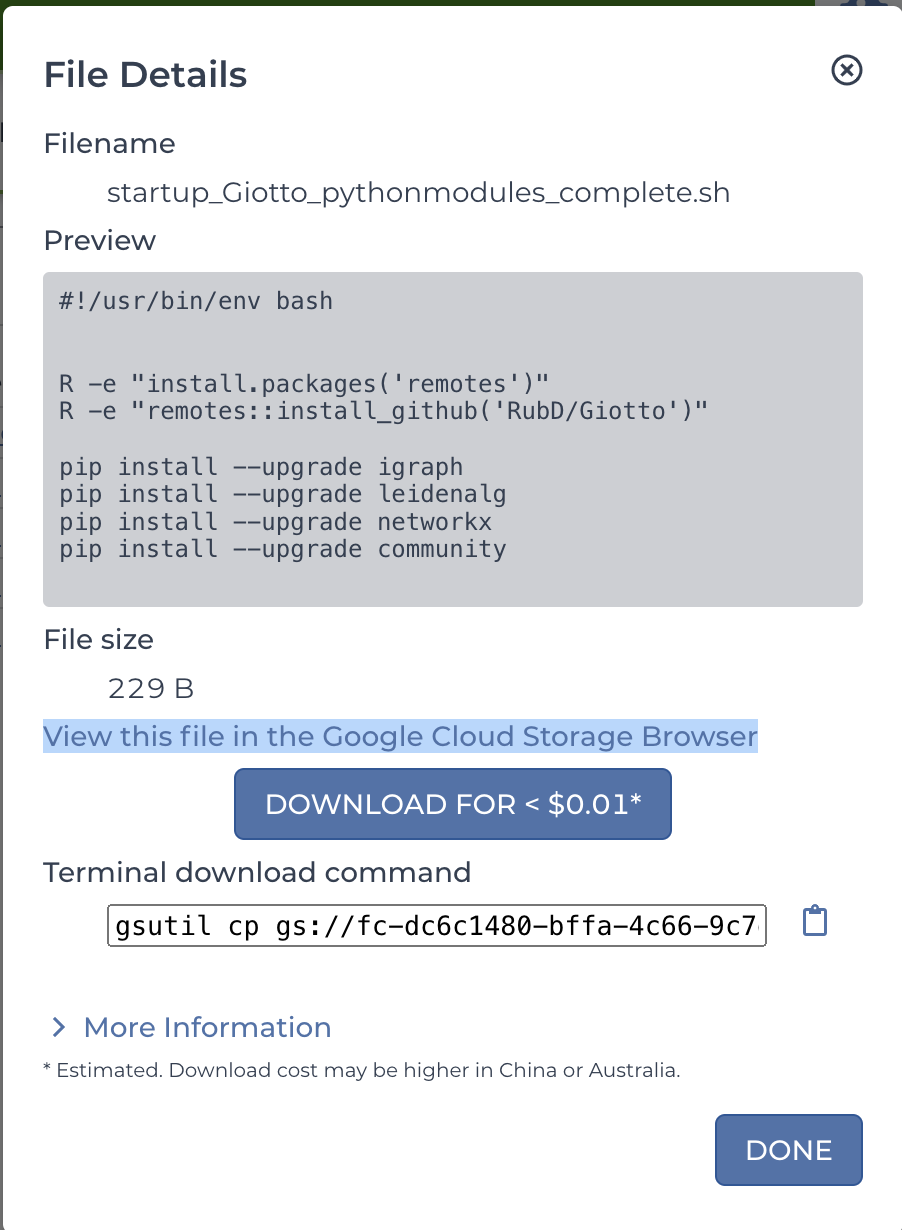
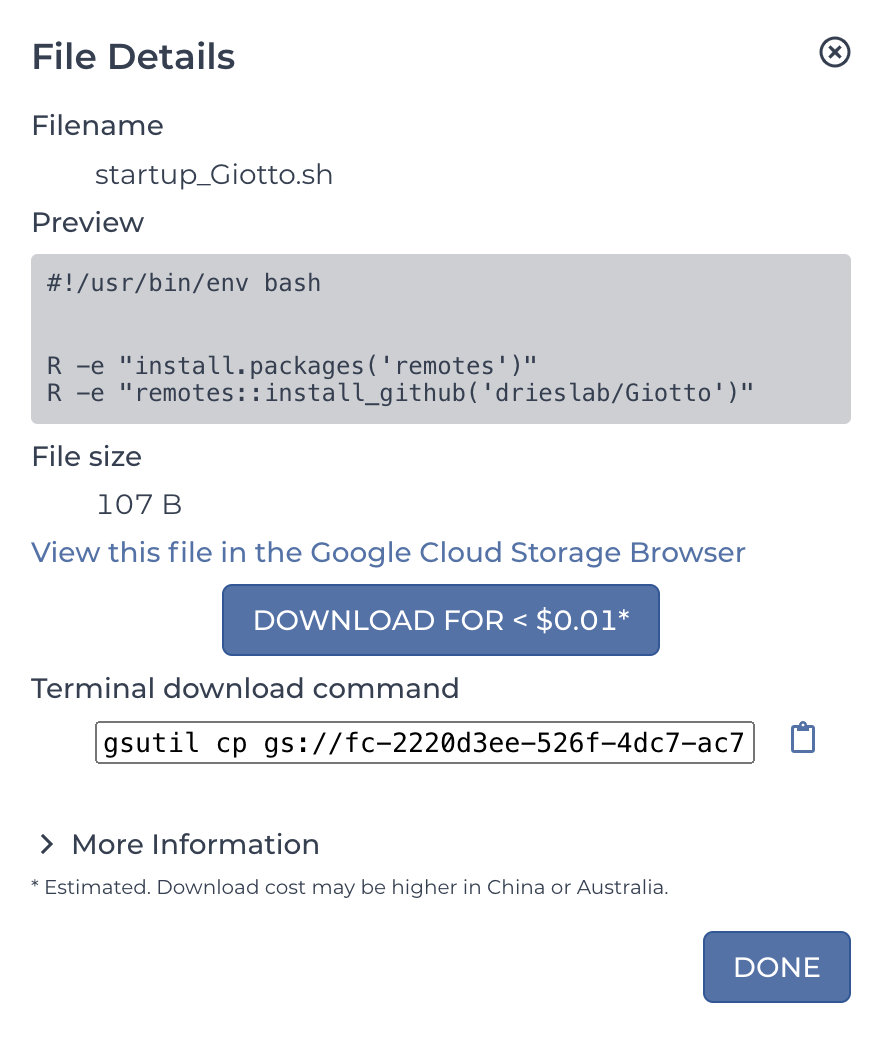
update Terra tutorial

Changed region(s): [[0.0, 0.0, 1.0, 1.0], [0.767, 0.8889, 0.9818, 0.9808], [0.8898, 0.6743, 0.9205, 0.7663]]

diff --git a/docs/source/subsections/trygiotto/terra.rst b/docs/source/subsections/trygiotto/terra.rst
@@ -4,85 +4,98 @@
 Terra
 ##########
 
+======================================
 Launching Giotto on the Cloud
 ======================================
 
-You can run all your pipelines using Giotto on the Cloud through Terra platform.
+You can run all your pipelines using Giotto on the Cloud through the Terra platform.
 
 Setting up your Terra account
 ======================================
 
-Go to `Terra <https://app.terra.bio/>`__ on your Chrome browser and `Sign Up` using the same email address that you will use for the billing account on Google Cloud Platform.
+Go to `Terra <https://app.terra.bio/>`__ on the Chrome browser and `Sign Up` using the same email address that you will use for the Google Cloud billing account.
 
 
 Creating a Billing Account
 ======================================
 
-- Create an account on the Google Cloud Platform.
-- Set Terra as a billing user on your account.
-- Select your Google account to create your billing project on Terra.
+- Create an account on the `Google Cloud Platform <https://cloud.google.com />`__. You can start a free trial with a $300 credit.
+- Set Terra as a billing user on your Google account by following these `steps <https://support.terra.bio/hc/en-us/articles/360026182251-How-to-set-up-billing-in-Terra/>`__.
+- Select your Google account to create a billing project on Terra.
 
-For additional information about billing account go to this `link <https://support.terra.bio/hc/en-us/articles/360048632271-Understanding-Terra-costs-and-billing>`__ .
+For additional information about billing accounts go to this `link <https://support.terra.bio/hc/en-us/articles/360048632271-Understanding-Terra-costs-and-billing>`__ .
 
 
 Create A Workspace
 ======================================
 
-- Create a workspace within your billing account. 
-  
-.. note:: 
+- Create a workspace under your billing account.
+
+.. note::
         All users with access permissions to your workspace will share the same billing account.
 
-- Launch a Virtual Machine with a Cloud environment.
+- You can upload your own data or download data from public databases to the workspace.
+- Launch a Cloud environment or Virtual Machine to start the analysis.
 
 
 Create a Cloud Environment
 ======================================
 
-In Terra, you can run Cloud Environments using Jupyter notebooks or the RStudio App. We recommend to your either the Juypyter notebook + Python + Bioconductor or RStudio + Bioconductor options. 
+In Terra, you can run Cloud Environments using Jupyter notebooks or the RStudio App. We recommend using the Juypyter notebook + Python + Bioconductor or the RStudio + Bioconductor options.
 
 .. image:: /images/img_terra/01_environments.png
+   :width: 50.0%
 
 You can customize the memory usage, the number of CPUs, and the persistent disk size for your virtual machine.
 
 .. image:: /images/img_terra/01_vm.png
+   :width: 50.0%
 
-Once you launched either a Jupyter notebook or the RStudio App, you can install the Giotto package using :bdg-link-primary:`RubD/Giotto/ <https://github.com/RubD/Giotto/>`.
+Once you launched either a Jupyter notebook or the RStudio App, you can install the Giotto package:
+
+.. container:: cell
+
+   .. code:: r
+
+      ## Install the master branch
+      remotes::instal_github("drieslab/Giotto")
+
+      ## Install the suite branch
+      remotes::instal_github("drieslab/Giotto@suite")
 
 
-If your prefer to launch a virtual machine ready to use, you can use our Terra-based Docker image, or the `Giotto's startup script <https://github.com/josschavezf/giotto_cloud/blob/main/startup_script.sh>`_ .
+If you prefer to launch a Juptyter notebook ready to run analysis with Giotto, you can use our Terra-based Docker image for the `master <https://hub.docker.com/repository/docker/josschavezf/terra-jupyter-python-bioconductor-giotto>`__ or `suite <https://hub.docker.com/repository/docker/josschavezf/terra-jupyter-python-bioconductor-giotto_suite>`__ branch.
+
+You can also launch the RStudio app using the Giotto's startup script for the `master <https://github.com/josschavezf/giotto_cloud/blob/main/startup_script.sh>`__ or `suite <https://github.com/josschavezf/giotto_cloud/blob/main/startup_script_suite.sh>`__ branch.
 
 
-Customizing your Cloud Environment using a Giotto's Docker image
+Customizing your Cloud Environment using Giotto's Docker image
 ============================================================================
 
-Under Application configuration, use the option Custom Environment and introduce the link to Docker container, named josschavezf/terra-jupyter-bioconductor-giotto:latest
+Under Application configuration, use the option Custom Environment and introduce the link to the Docker container, named josschavezf/terra-jupyter-bioconductor-giotto:latest or josschavezf/terra-jupyter-python-bioconductor-giotto_suite:latest
 
 .. image:: /images/img_terra/02_docker.png
-
+   :width: 50.0%
 
 Customizing your Cloud Environment using a Startup Script
 ============================================================================
 
-You can download the Startup Script from this `link <https://github.com/josschavezf/giotto_cloud/blob/main/startup_script.sh>`_ .
+You can download the Startup Script from this `link <https://github.com/josschavezf/giotto_cloud/>`__ .
 
 - Upload the Startup Script to your Workspace Files.
 
 .. image:: /images/img_terra/03_upload.png
+   :width: 50.0%
 
-- Click on the startup_script.sh document and select "View this file in the Google Cloud Storage Browser" this option will re-direct you to your Google Cloud documents page
+- Click on the startup_script.sh document and copy the gs link.
 
 .. image:: /images/img_terra/03_view.png
+   :width: 50.0%
 
-- Click on the startup_script.sh document to display the file details. Copy the link
-
-.. image:: /images/img_terra/03_googlecloud.png
-
-.. image:: /images/img_terra/03_url.png
-
-- Use this link to launch the Cloud environment under the Startup Script option
+- Copy and paste the link under the Startup Script option to launch the Cloud environment.
 
 .. image:: /images/img_terra/03_cloud.png
+   :width: 50.0%
 
 - Click on Create Environment
 
@@ -91,20 +104,21 @@ You can download the Startup Script from this `link <https://github.com/josschav
 Share your workspace with collaborators
 =========================================
 
-You can share your workspace with collaborators, including data, notebooks, and workflows stored in your workspace. 
+You can share your workspace with collaborators, including data, notebooks, and workflows stored in your workspace.
 
-- Go to the Dashboard tab on your workspace and click the three dots on the upper right corner.
-- Select Share option.
-- Add the email of your collaborator. They will receive an invitation for joining the worskpace.
-- You can select which permissions are granted to your collaborator (reader, writer or owner).
+- Go to the Dashboard tab on your workspace and click the three dots in the upper right corner.
+- Select the Share option.
+- Add the email of your collaborator. They will receive an invitation for joining the workspace.
+- You can select the permissions granted to your collaborator (reader, writer, or owner).
 - Click the save button.
 
 .. image:: /images/img_terra/04_share.png
+   :width: 50.0%
 
 
-.. dropdown:: :octicon:`alert` Considerations to take into account when sharing with collaborators in Terra
+.. dropdown:: :octicon:`alert` Considerations when collaborating in Terra
 
-    - Keep in mind that all Cloud environments (virtual machines) launched within the same workspace are linked to the same billing account.
-    - Simultaneous modification of notebooks are not allowed.
+    - All Cloud environments (virtual machines) launched within the same workspace are linked to the same billing account.
+    - Simultaneous modification of notebooks is not allowed.
     - Opening the notebook while someone else is editing will show a message, but the current editor is not notified when someone else is trying to open the notebook.
 
